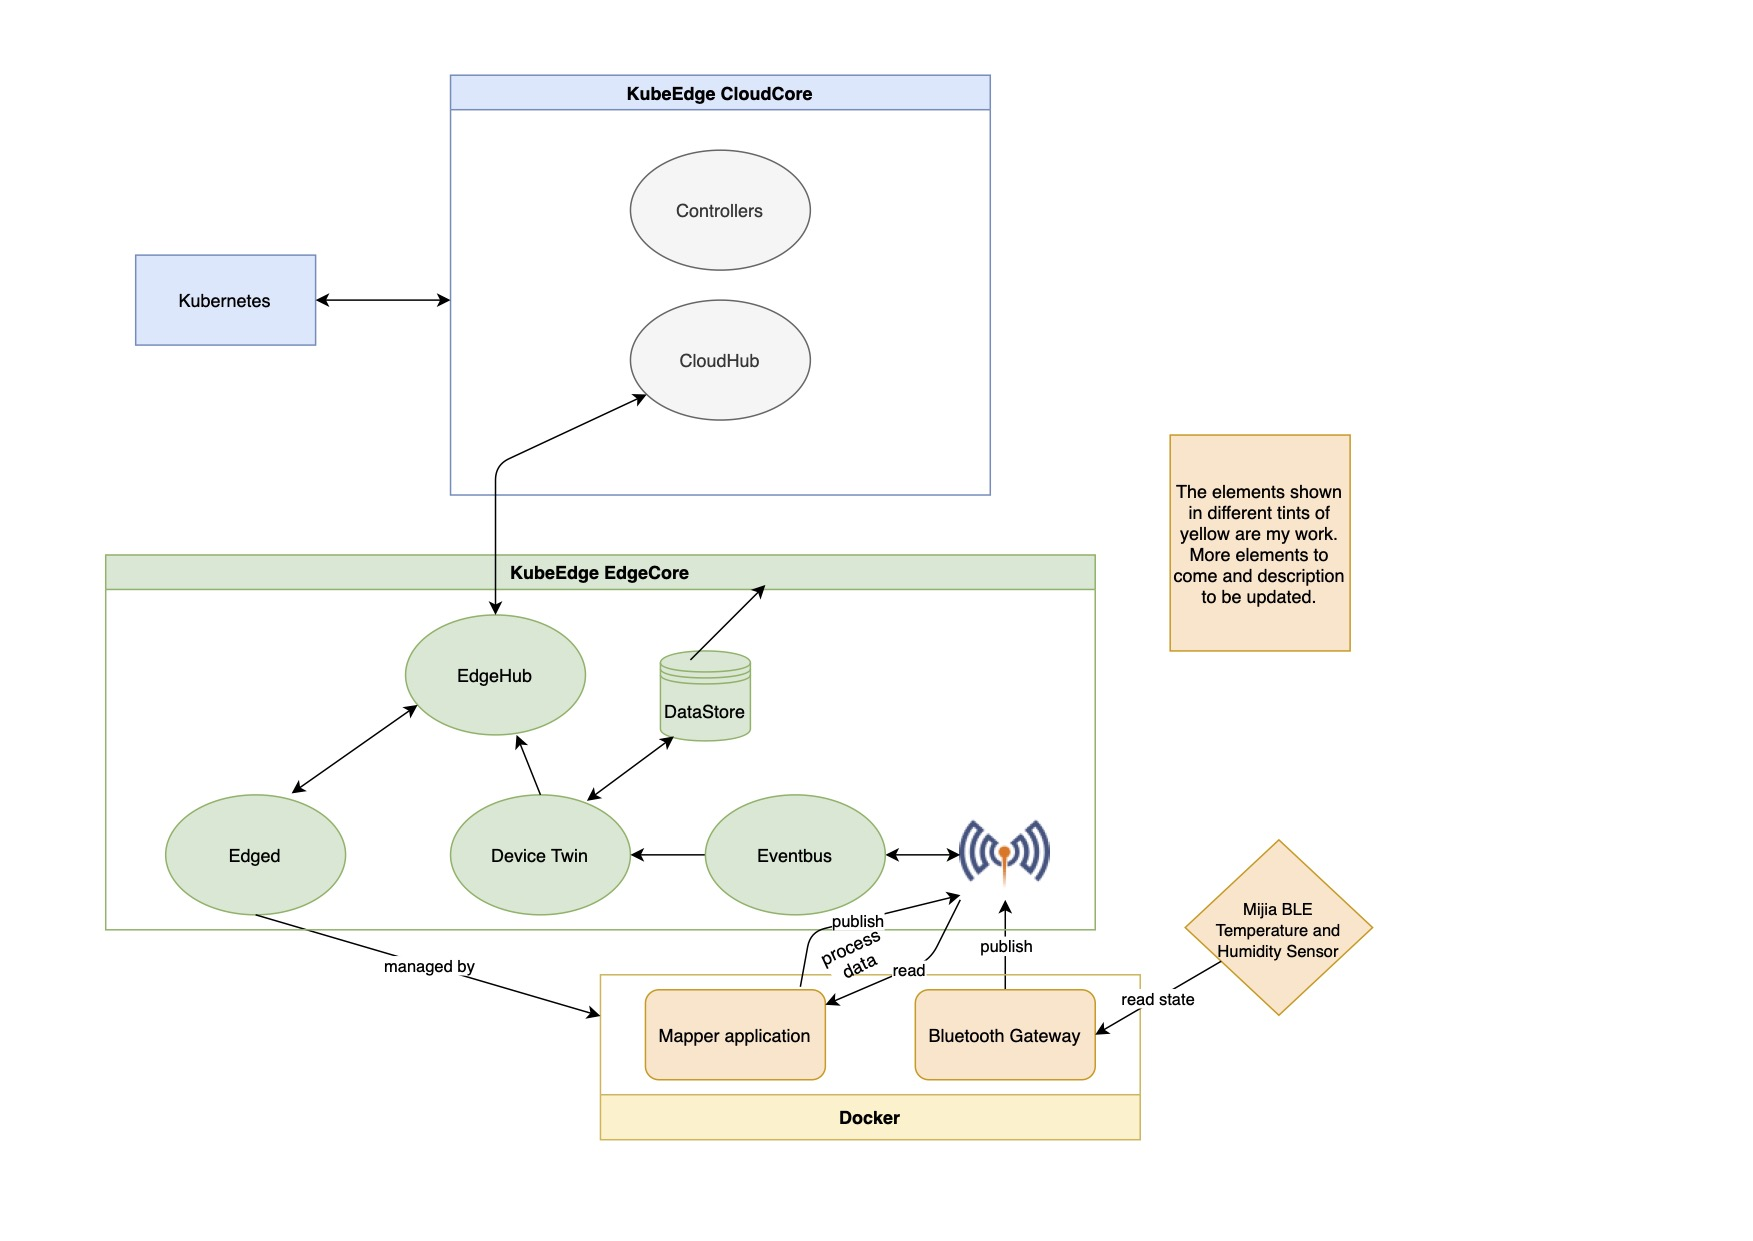
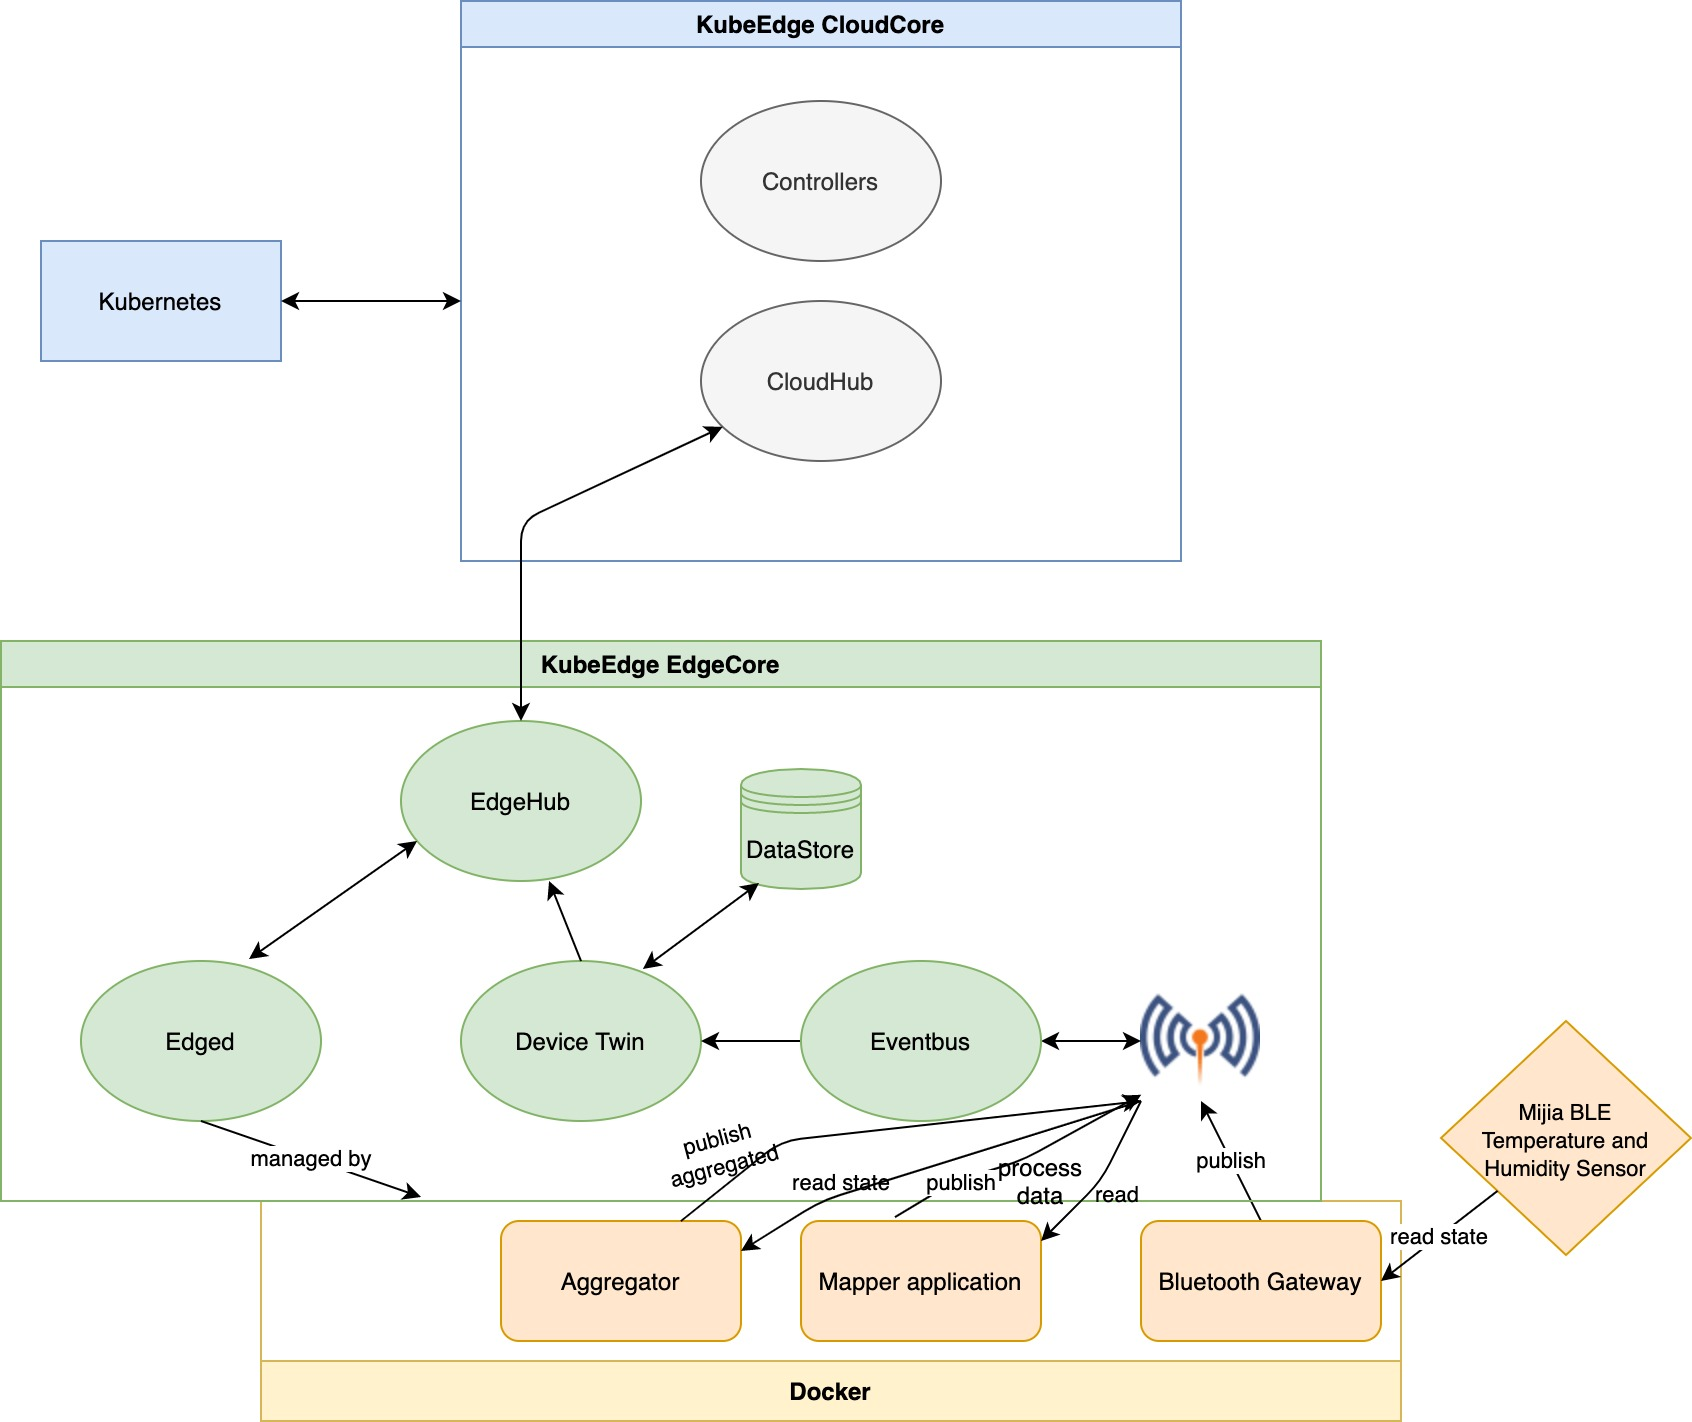
Last polishes
Updated the function model, the wording in README
Renamed a couple components for more suitable names.

diff --git a/README.md b/README.md
@@ -115,14 +115,14 @@ $ kubectl create -f crds/kubeedge-hudtemp-mapper1.yaml
 $ kubectl create -f crds/kubeedge-hudtemp-mapper2.yaml
 ```
 
-### Publish the virtual signal application
+### Publish the signal aggregator application
 
-The virtual signal application is written in Golang and its purpose is to introduce a third temperature and humidity measurement, so we have 3 signals to run triple modular redundancy on and to implement that tmr algorithm and produce the aggregated signal based on that.
+The signal aggregator application is written in go and its purpose is to introduce a third temperature and humidity measurement, so we have 3 signals to run triple modular redundancy on and to implement a triple module redundant algorithm to produce the aggregated signal using that.
 
 #### Below commands must be executed on the edge node
 
 ```console
-$ cd kubeedge_thesis_demo/virtual_signal
+$ cd kubeedge_thesis_demo/signal_aggregator
 // We'll build the injector application at this point, with the user defined rooms
 $ sed -i 's/<first_room>/<first_previously_defined_room>/g' main.go
 $ sed -i 's/<second_room>/<second_previously_defined_room>/g' main.go
@@ -132,7 +132,7 @@ $ docker build -t aggregator:v1.0 .
 
 Now we have the Docker image ready on the edge node.
 
-### Instantiation of the virtual signal application
+### Instantiation of the signal aggregator application
 
 In this step we'll instantiate the mapper applications we've previously prepared. This is done using Kubernetes.
 
@@ -140,7 +140,7 @@ In this step we'll instantiate the mapper applications we've previously prepared
 
 ```console
 $ cd kubeedge_thesis_demo
-$ kubectl create -f crds/kubeedge-hudtemp-virtual-signal.yaml
+$ kubectl create -f crds/kubeedge-hudtemp-aggregated-signal.yaml
 ```
 
 After the above commands have been executed, the Docker containers will soon be instantiated on the edge node and the measurements made by the temperature and humidity sensors will be published to Kubernetes, too. You can check it by executing the 'kubectl get device hudtemp-aggregated'.
